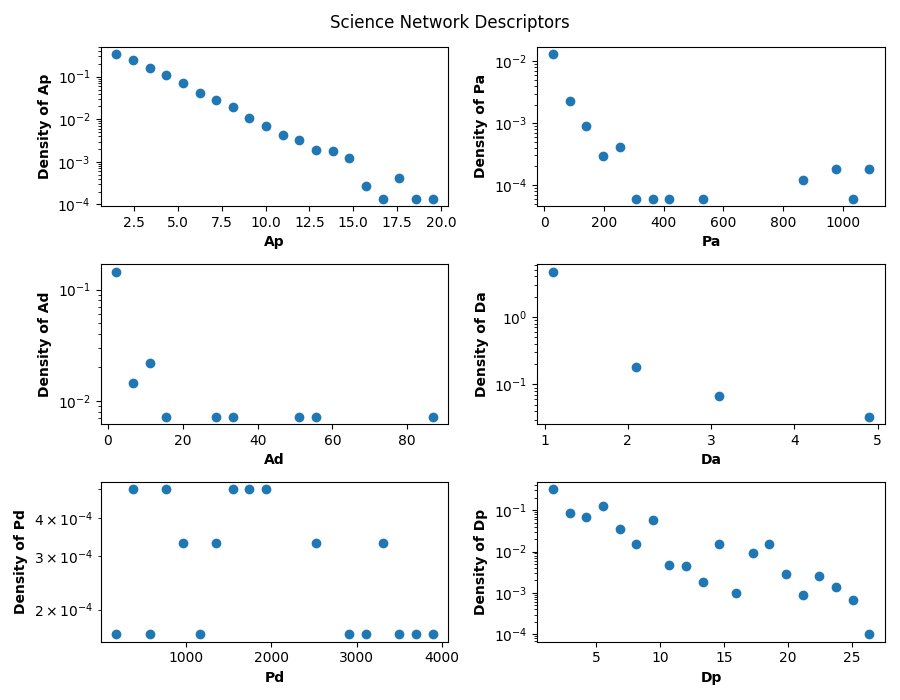
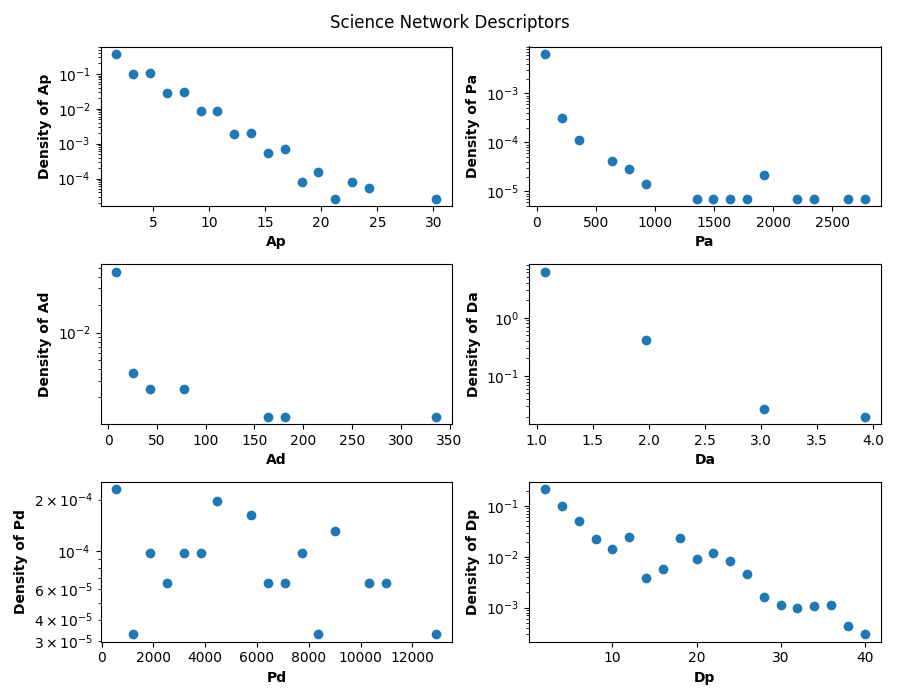
Trial run with 1000 steps

diff --git a/modelReplication.py b/modelReplication.py
@@ -6,16 +6,16 @@ This script attempts to follow replicate the results from the following paper: h
 '''
 
 # Declare the Nanobank simulation
-nanobank = Evolution(Pn=0.9, Pw=0.28, Pd=0)
-nanobank.evolve(newAuthors=300)
-nanobank.plotDescriptorsDistr(saveToFile='outputs/nanobankPlots.png', logBase=10)
+model = Evolution(Pn=0.9, Pw=0.28, Pd=0)
+model.evolve(newAuthors=1000)
+model.plotDescriptorsDistr(saveToFile='outputs/nanobankPlots.png', logBase=10)
 
 # Declare the Scholarometer simulation
-scholarometer = Evolution(Pn=0.04, Pw=0.35, Pd=0.01)
-scholarometer.evolve(newAuthors=300)
-scholarometer.plotDescriptorsDistr(saveToFile='outputs/scholarometerPlots.png', logBase=10)
+model = Evolution(Pn=0.04, Pw=0.35, Pd=0.01)
+model.evolve(newAuthors=1000)
+model.plotDescriptorsDistr(saveToFile='outputs/scholarometerPlots.png', logBase=10)
 
 # Declare the Bibsonomy simulation
-bibsonomy = Evolution(Pn=0.80, Pw=0.71, Pd=0.50)
-bibsonomy.evolve(newPapers=300)
-bibsonomy.plotDescriptorsDistr(saveToFile='outputs/bibsonomyPlots.png', logBase=10)
+model = Evolution(Pn=0.80, Pw=0.71, Pd=0.50)
+model.evolve(newPapers=1000)
+model.plotDescriptorsDistr(saveToFile='outputs/bibsonomyPlots.png', logBase=10)

diff --git a/modules/Evolution.py b/modules/Evolution.py
@@ -251,6 +251,9 @@ class Evolution:
             self.newPaper += 1
             ind = self.newPaper if newPapers else self.newAuthor
             # print(f'ind: {ind} increments: {increments}')
+
+            if ind % 100 == 0:
+                print(f'{self.newPaper} papers and {self.newAuthor} authors')
         # print(f'Authors: {self.network.nodes(data=True)}')
         # print(f'Papers: {self.papers}')
         # print(f'Topics: {self.topics}')

diff --git a/README.md b/README.md
@@ -66,3 +66,4 @@ Todo: Edges with thickness for how many they have done together
 * [Pyvis](https://pyvis.readthedocs.io/en/latest/index.html) for interactive network visualizations.
 * [Matplotlib](https://matplotlib.org/) for simple network visualizations.
 * [Pickle](https://docs.python.org/3/library/pickle.html) for saving and loading models.
+* Pandas
